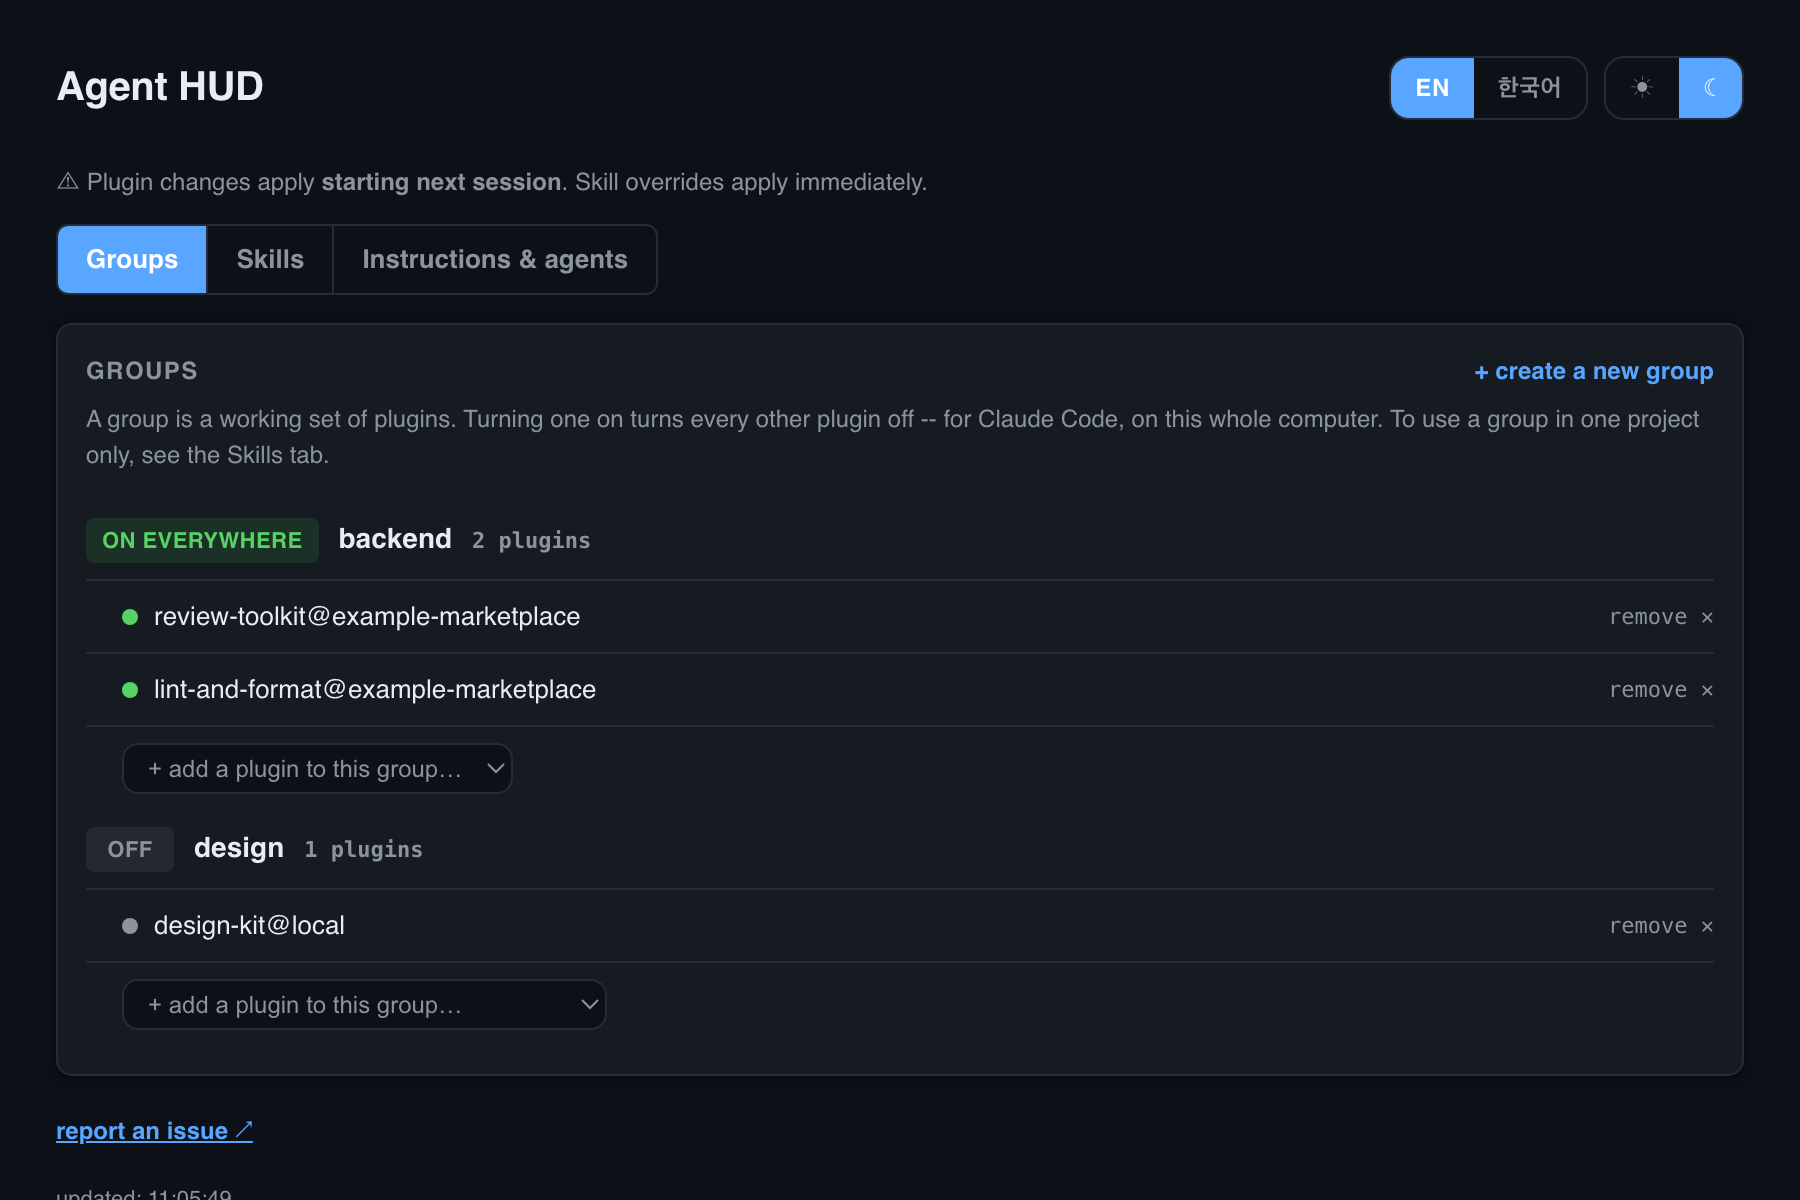
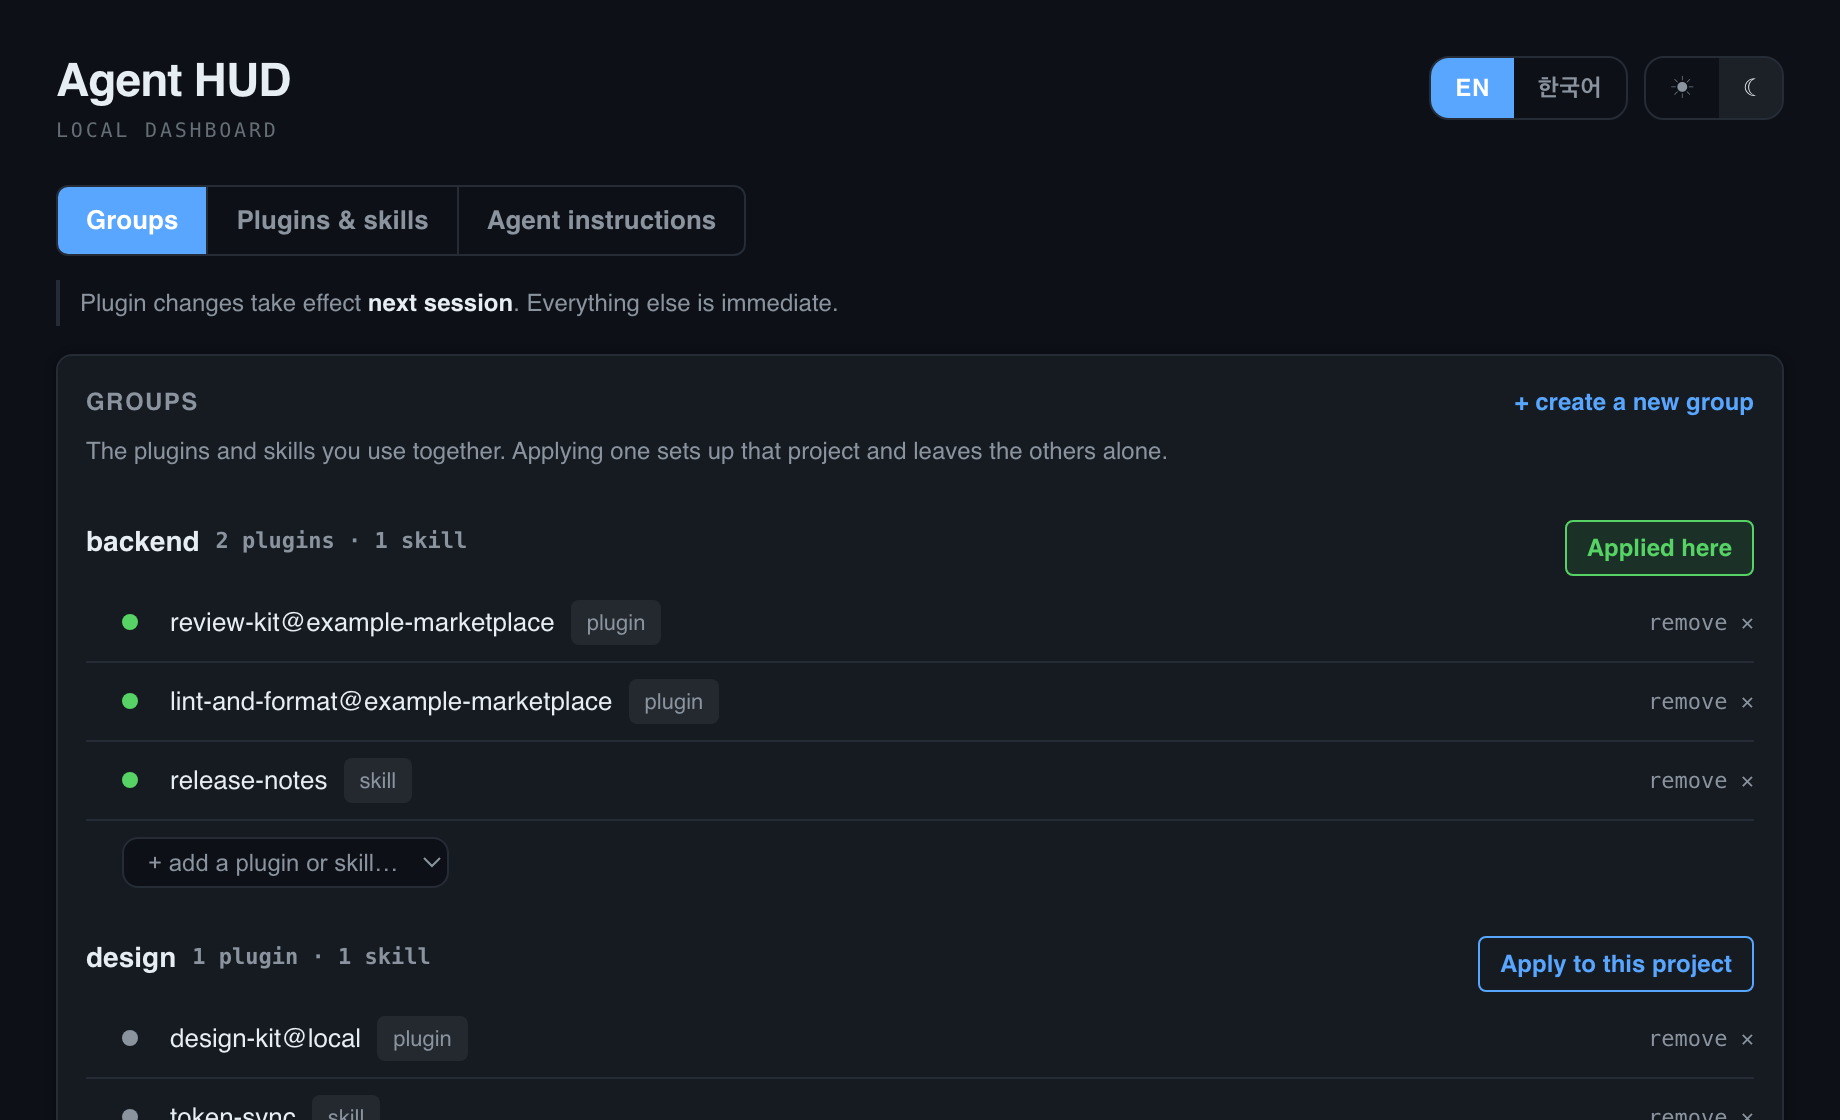
New screenshots: English dark and Korean light, from fake data
The old ones predate the tab restructure -- they still showed a Plugins tab and
the pre-merge layout. Regenerated from a throwaway instance serving invented
plugins and paths, per the sanitized-demo process, and each image was opened
and read before committing.

The README now shows the same tab twice, English on dark and Korean on light,
which is also the only honest way to show that both toggles exist.

Claude-Session: https://claude.ai/code/session_01Q8u8awEQAoutwAobbwyV2h

diff --git a/README.md b/README.md
@@ -7,7 +7,7 @@
 <p align="center">코딩 에이전트의 스킬·지침·플러그인 상태를 한 화면에 보여주는 로컬 대시보드</p>
 
 <p align="center">
-  <img src="assets/screenshot.png" alt="Agent HUD screenshot" width="560">
+  <img src="assets/screenshot.png" alt="Plugins &amp; skills tab: every skill with a badge per agent" width="640">
 </p>
 
 ## The problem / 배경
@@ -67,8 +67,14 @@ Dark mode by default (☀/☾ toggle) and an EN/한국어 toggle, both persisted
 > 기본값은 다크모드(☀/☾ 토글)이고 EN/한국어 토글도 있다. 둘 다 `localStorage`에 저장된다.
 
 <p align="center">
+  <img src="assets/screenshot-ko.png" alt="Plugins &amp; skills tab, Korean, light theme" width="560">
+</p>
+
+<p align="center"><sub>Same tab in 한국어 and the light theme. Both toggles are in the header.</sub></p>
+
+<p align="center">
   <img src="assets/screenshot-groups.png" alt="Groups tab" width="560">
-  <img src="assets/screenshot-instructions.png" alt="Instructions tab" width="560">
+  <img src="assets/screenshot-instructions.png" alt="Agent instructions tab" width="560">
 </p>
 
 ## Concepts / 개념
